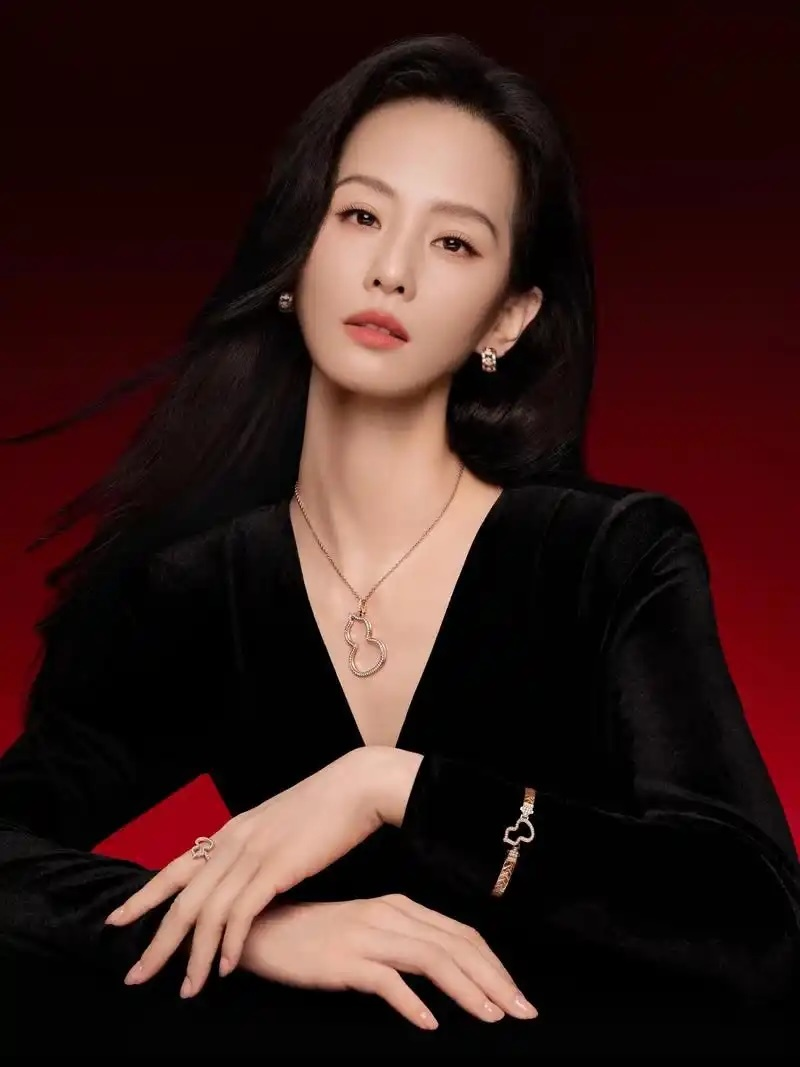
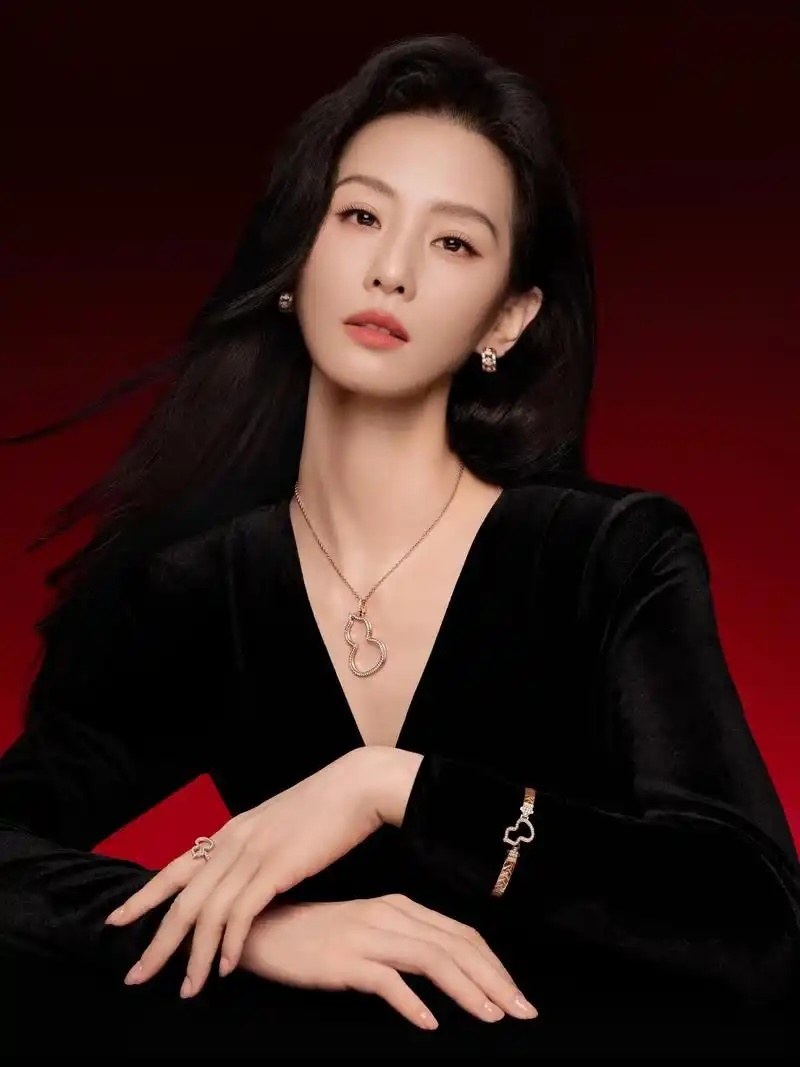
不错

Changed region(s): [[0.4062, 0.0619, 0.6562, 0.1856]]

diff --git a/face_resize.py b/face_resize.py
@@ -7,6 +7,8 @@ import mediapipe as mp
 import numpy as np
 
 
+IMAGE_EXTENSIONS = {".jpg", ".jpeg", ".png", ".bmp", ".webp", ".tif", ".tiff"}
+
 FACE_OVAL = [
     10, 338, 297, 332, 284, 251, 389, 356,
     454, 323, 361, 288, 397, 365, 379, 378,
@@ -383,34 +385,57 @@ def resize_face_local(input_path, output_path, scale_x, scale_y, anchor_scale, f
         write_image(debug_mesh, draw_debug_mesh(img, src_points, dst_points, point_kinds, triangles))
 
 
-def parse_args():
-    parser = argparse.ArgumentParser(
-        description="Resize a detected face with a continuous face-local landmark mesh warp."
-    )
-    parser.add_argument("--input", required=True, help="Input image path.")
-    parser.add_argument("--output", required=True, help="Output image path.")
-    parser.add_argument("--scale", type=float, default=1.0, help="Uniform face-local scale.")
-    parser.add_argument("--scale-x", type=float, default=None, help="Face-local horizontal scale.")
-    parser.add_argument("--scale-y", type=float, default=None, help="Face-local vertical scale.")
-    parser.add_argument("--anchor-scale", type=float, default=1.6, help="Expansion factor for fixed outer anchors.")
-    parser.add_argument("--forehead-expand", type=float, default=0.0, help="Add moving forehead controls above the face oval as a fraction of face height.")
-    parser.add_argument("--debug-points", default=None, help="Optional image showing source, destination, and anchor points.")
-    parser.add_argument("--debug-mesh", default=None, help="Optional image showing destination Delaunay mesh.")
-    return parser.parse_args()
+def iter_image_paths(folder, recursive=False):
+    folder = Path(folder)
+    pattern = "**/*" if recursive else "*"
+    for path in sorted(folder.glob(pattern)):
+        if path.is_file() and path.suffix.lower() in IMAGE_EXTENSIONS:
+            yield path
 
 
-def main():
-    args = parse_args()
+def output_path_for(input_path, input_folder, output_folder):
+    rel_path = input_path.relative_to(input_folder)
+    return Path(output_folder) / rel_path
+
+
+def validate_common_args(parser, args):
     scale_x = args.scale if args.scale_x is None else args.scale_x
     scale_y = args.scale if args.scale_y is None else args.scale_y
 
     if scale_x <= 0 or scale_y <= 0:
-        raise RuntimeError("Scale values must be greater than zero.")
+        parser.error("scale values must be greater than zero")
     if args.anchor_scale <= 1.0:
-        raise RuntimeError("--anchor-scale must be greater than 1.0.")
+        parser.error("--anchor-scale must be greater than 1.0")
     if args.forehead_expand < 0:
-        raise RuntimeError("--forehead-expand must be greater than or equal to 0.")
+        parser.error("--forehead-expand must be greater than or equal to 0")
 
+    return scale_x, scale_y
+
+
+def validate_args(parser, args):
+    scale_x, scale_y = validate_common_args(parser, args)
+
+    batch_args = [args.input_folder, args.output_folder]
+    batch_mode = any(batch_args)
+
+    if batch_mode:
+        if not all(batch_args):
+            parser.error("--input-folder and --output-folder must be used together")
+        if args.input or args.output:
+            parser.error("Use either --input-folder/--output-folder or --input/--output, not both")
+        if args.debug_points or args.debug_mesh:
+            parser.error("--debug-points and --debug-mesh are only for single-image mode")
+        return "batch", scale_x, scale_y
+
+    if not args.input or not args.output:
+        parser.error("single-image mode requires --input and --output")
+    if args.recursive:
+        parser.error("--recursive can only be used with --input-folder")
+
+    return "single", scale_x, scale_y
+
+
+def run_single(args, scale_x, scale_y):
     resize_face_local(
         input_path=args.input,
         output_path=args.output,
@@ -422,6 +447,76 @@ def main():
         debug_mesh=args.debug_mesh,
     )
     print("saved:", Path(args.output))
+
+
+def run_batch(args, scale_x, scale_y):
+    input_folder = Path(args.input_folder)
+    output_folder = Path(args.output_folder)
+
+    if not input_folder.is_dir():
+        raise RuntimeError(f"Input folder does not exist or is not a directory: {input_folder}")
+
+    image_paths = list(iter_image_paths(input_folder, recursive=args.recursive))
+    if not image_paths:
+        raise RuntimeError(f"No supported images found in folder: {input_folder}")
+
+    saved = 0
+    failed = 0
+
+    for index, input_path in enumerate(image_paths, start=1):
+        output_path = output_path_for(input_path, input_folder, output_folder)
+        print(f"[{index}/{len(image_paths)}] processing: {input_path}")
+
+        try:
+            resize_face_local(
+                input_path=input_path,
+                output_path=output_path,
+                scale_x=scale_x,
+                scale_y=scale_y,
+                anchor_scale=args.anchor_scale,
+                forehead_expand=args.forehead_expand,
+            )
+        except Exception as exc:
+            failed += 1
+            print(f"failed: {input_path}: {exc}")
+            continue
+
+        saved += 1
+        print("saved:", output_path)
+
+    if failed:
+        raise RuntimeError(f"Batch finished with failures: saved {saved}, failed {failed}")
+
+    print(f"batch complete: saved {saved} image(s) to {output_folder}")
+
+
+def parse_args():
+    parser = argparse.ArgumentParser(
+        description="Resize a detected face with a continuous face-local landmark mesh warp."
+    )
+    parser.add_argument("--input", help="Input image path.")
+    parser.add_argument("--output", help="Output image path.")
+    parser.add_argument("--input-folder", help="Folder of images to process one by one.")
+    parser.add_argument("--output-folder", help="Folder to save batch results.")
+    parser.add_argument("--scale", type=float, default=1.0, help="Uniform face-local scale.")
+    parser.add_argument("--scale-x", type=float, default=None, help="Face-local horizontal scale.")
+    parser.add_argument("--scale-y", type=float, default=None, help="Face-local vertical scale.")
+    parser.add_argument("--anchor-scale", type=float, default=1.6, help="Expansion factor for fixed outer anchors.")
+    parser.add_argument("--forehead-expand", type=float, default=0.0, help="Add moving forehead controls above the face oval as a fraction of face height.")
+    parser.add_argument("--debug-points", default=None, help="Optional image showing source, destination, and anchor points.")
+    parser.add_argument("--debug-mesh", default=None, help="Optional image showing destination Delaunay mesh.")
+    parser.add_argument("--recursive", action="store_true", help="Process images in nested folders.")
+    args = parser.parse_args()
+    mode, scale_x, scale_y = validate_args(parser, args)
+    return args, mode, scale_x, scale_y
+
+
+def main():
+    args, mode, scale_x, scale_y = parse_args()
+    if mode == "batch":
+        run_batch(args, scale_x, scale_y)
+    else:
+        run_single(args, scale_x, scale_y)
 
 
 if __name__ == "__main__":

diff --git a/README.md b/README.md
@@ -32,6 +32,11 @@ The deformation is one continuous field. There is no separate face patch paste,
 source/target swap, mask expansion, inpainting, or semantic hair detection in
 this version.
 
+## Example
+
+![Face resize comparison](examples/comparsison.jpg)
+
+
 ## Requirements
 
 Use Python 3.12.
@@ -123,6 +128,25 @@ Write debug point and mesh overlays:
   --debug-mesh debug_mesh.png
 ```
 
+Batch process a folder:
+
+```bash
+./.venv/bin/python face_resize.py \
+  --input-folder photos \
+  --output-folder resized_photos \
+  --scale 0.92
+```
+
+Batch process nested folders:
+
+```bash
+./.venv/bin/python face_resize.py \
+  --input-folder photos \
+  --output-folder resized_photos \
+  --recursive \
+  --scale 0.92
+```
+
 Include more forehead in the moving control area:
 
 ```bash
@@ -147,6 +171,8 @@ Try a few shrink strengths:
 ```text
 --input         Input image path.
 --output        Output image path.
+--input-folder  Folder of images to process one by one.
+--output-folder Folder to save batch results.
 --scale         Uniform face-local scale. Example: 0.92 smaller, 1.08 larger.
 --scale-x       Face-local horizontal scale. Overrides --scale for the eye-to-eye axis.
 --scale-y       Face-local vertical scale. Overrides --scale for the forehead-to-chin axis.
@@ -155,7 +181,13 @@ Try a few shrink strengths:
                 Add moving forehead controls above the face oval as a fraction of face height. Example: 0.20.
 --debug-points  Save a debug image with moving source points in red, moving destination points in green, and fixed outer anchors in blue.
 --debug-mesh    Save a debug image with destination Delaunay triangles in gray.
+--recursive     Process images in nested folders when using --input-folder.
 ```
+
+Use either single-image mode (`--input` and `--output`) or batch mode
+(`--input-folder` and `--output-folder`). Batch mode supports `.jpg`, `.jpeg`,
+`.png`, `.bmp`, `.webp`, `.tif`, and `.tiff` files, and saves each result under
+the output folder with the same relative path as the input image.
 
 `--scale-x` follows the eye-to-eye axis. `--scale-y` follows the perpendicular
 axis corrected toward the chin. The outer anchor points stay fixed so the mesh

diff --git a/legendary/README_v1.md b/legendary/README_v1.md
@@ -27,6 +27,10 @@ Basic process:
 5. Warp the source face onto the target image.
 6. Blend the result and save a PNG/JPG output.
 
+## Example
+
+![Face resize comparison](examples/comparsison_v1.jpg)
+
 ## Requirements
 
 Use Python 3.12.